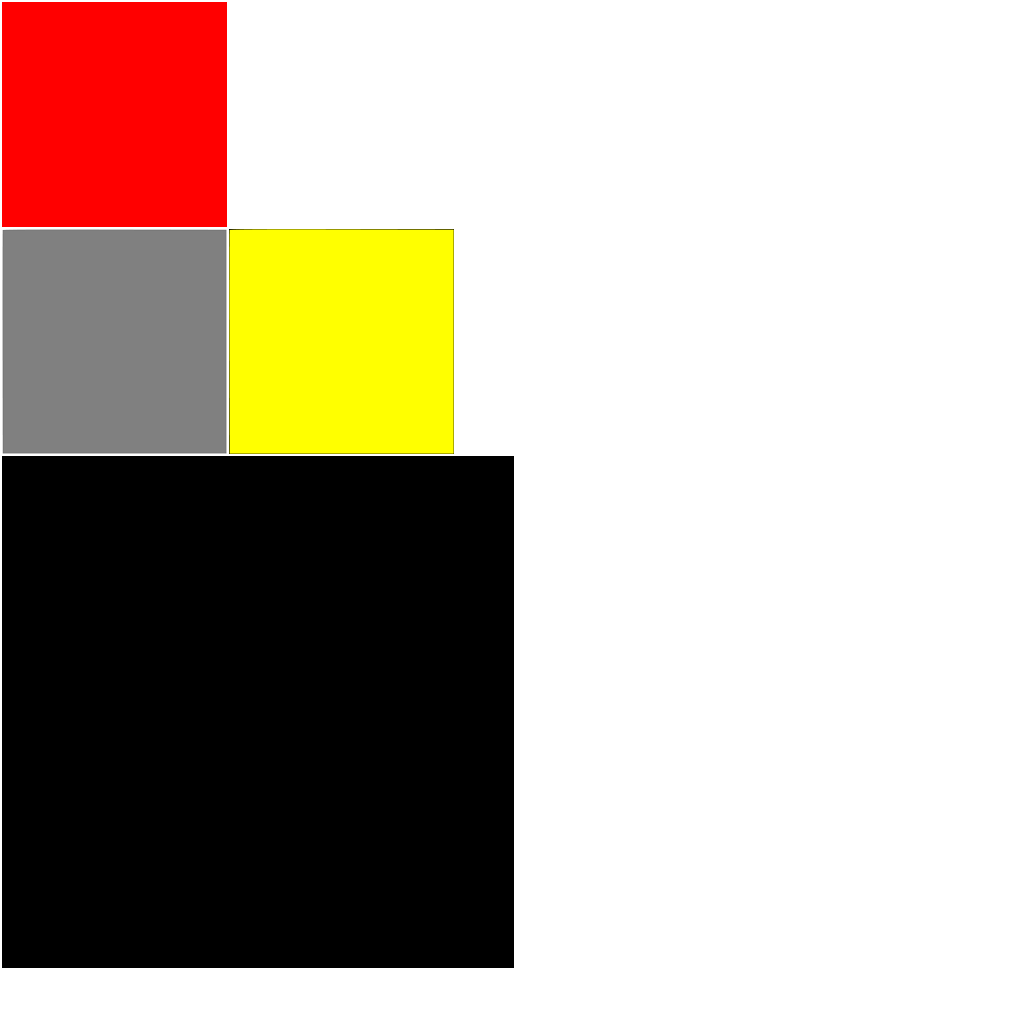
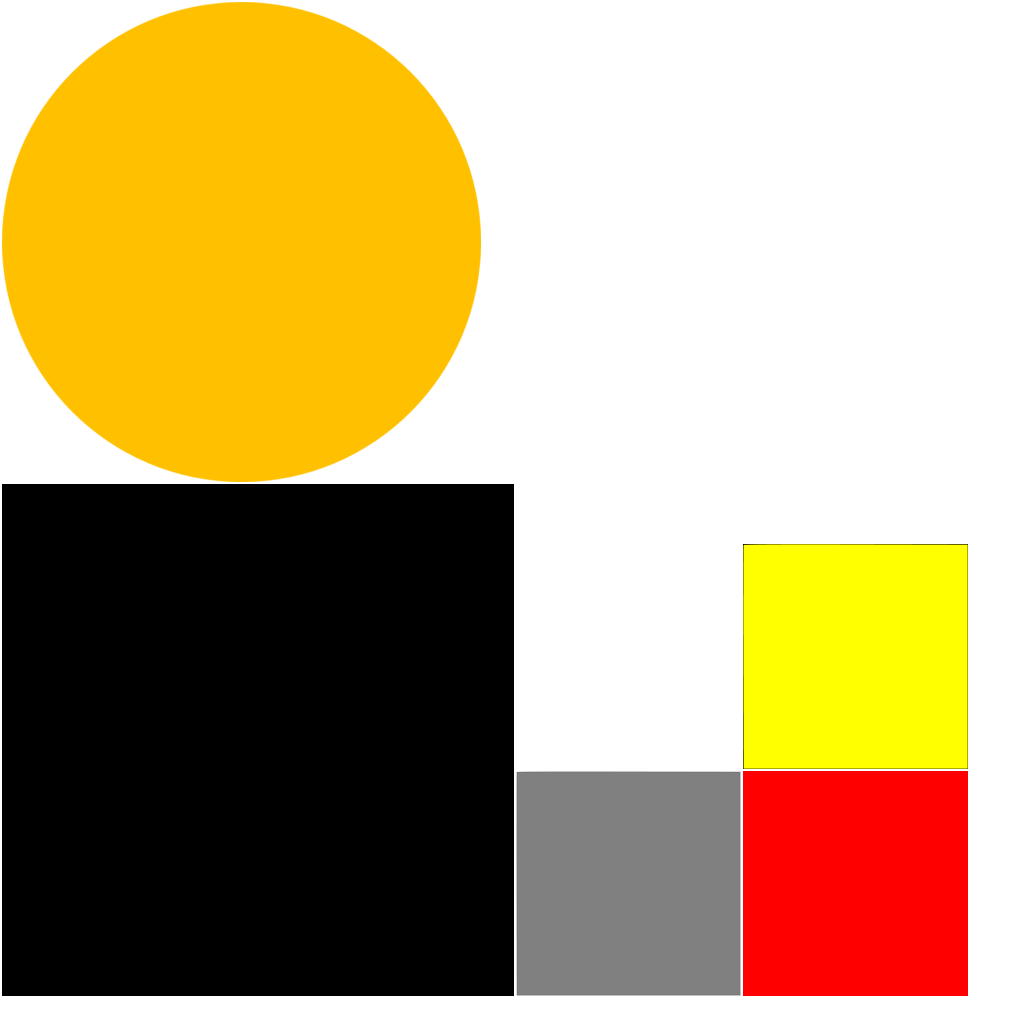
Circle zone

diff --git a/core/src/io/cucumber/view/GameScreen.kt b/core/src/io/cucumber/view/GameScreen.kt
@@ -65,7 +65,7 @@ class GameScreen(
                         DEFENDER_POWER,
                         DEFENDER_ZONE_SIZE,
                         DEFENDER_ZONE_ALPHA,
-                        level.assets.menuBackground
+                        level.assets.zone
                 )
                 payload.dragActor = actor
                 addActor(actor)
@@ -160,10 +160,18 @@ class GameScreen(
     }
 
     override fun stateCheck() {
-        defenders.forEach {
+        val hited = defenders.any {
             if (it.isCollidesZone(enemy)) {
                 enemy.hit(it.power * Gdx.graphics.deltaTime)
+                return@any true
             }
+
+            return@any false
+        }
+        if (hited) {
+            enemy.region = level.assets.menuBackground
+        } else {
+            enemy.region = level.assets.enemy
         }
 
         road.forEach {

diff --git a/core/src/io/cucumber/model/character/Zone.java b/core/src/io/cucumber/model/character/Zone.java
@@ -3,23 +3,23 @@ package io.cucumber.model.character;
 import com.badlogic.gdx.graphics.Color;
 import com.badlogic.gdx.graphics.g2d.Batch;
 import com.badlogic.gdx.graphics.g2d.TextureRegion;
-import com.badlogic.gdx.math.Rectangle;
+import com.badlogic.gdx.math.Circle;
+import com.badlogic.gdx.math.Intersector;
 
 import io.cucumber.base.model.base.Actor;
 import io.cucumber.base.model.base.StaticActor;
-import io.cucumber.base.model.bound.RectangleBound;
+import io.cucumber.base.model.bound.CircleBound;
 
-public class Zone extends StaticActor<Rectangle> {
+public class Zone extends StaticActor<Circle> {
 
     private Actor actor;
     private float alpha;
 
     public Zone(Actor actor, float size, float alpha, TextureRegion region) {
-        super(new RectangleBound(
+        super(new CircleBound(
                 actor.getX() + actor.getWidth() / 2f - size / 2f,
                 actor.getY() + actor.getHeight() / 2f - size / 2f,
-                size,
-                size
+                size / 2
         ), region);
         this.actor = actor;
         this.alpha = alpha;
@@ -63,5 +63,9 @@ public class Zone extends StaticActor<Rectangle> {
 
     public float getAlpha() {
         return alpha;
+    }
+
+    public boolean isCollides(Enemy enemy) {
+        return Intersector.overlaps(getBound().getValue(), enemy.getBound().getValue());
     }
 }

diff --git a/core/src/io/cucumber/base/model/bound/CircleBound.java b/core/src/io/cucumber/base/model/bound/CircleBound.java
@@ -5,17 +5,17 @@ import com.badlogic.gdx.math.Circle;
 public class CircleBound extends Bound2D<Circle> {
 
     public CircleBound(float x, float y, float radius) {
-        super(new Circle(x, y, radius));
+        super(new Circle(x + radius, y + radius, radius));
     }
 
     @Override
     public float getX() {
-        return bound.x;
+        return bound.x - bound.radius;
     }
 
     @Override
     public float getY() {
-        return bound.y;
+        return bound.y - bound.radius;
     }
 
     @Override
@@ -30,12 +30,12 @@ public class CircleBound extends Bound2D<Circle> {
 
     @Override
     public void setX(float x) {
-        bound.x = x;
+        bound.x = x + bound.radius;
     }
 
     @Override
     public void setY(float y) {
-        bound.y = y;
+        bound.y = y + bound.radius;
     }
 
     @Override
@@ -50,11 +50,11 @@ public class CircleBound extends Bound2D<Circle> {
 
     @Override
     public boolean overlaps(Bound2D<Circle> otherBound) {
-        return bound.overlaps(otherBound.getBound());
+        return bound.overlaps(otherBound.getValue());
     }
 
     @Override
-    protected Circle getBound() {
+    public Circle getValue() {
         return bound;
     }
 

diff --git a/core/src/io/cucumber/model/asset/LevelAssets.java b/core/src/io/cucumber/model/asset/LevelAssets.java
@@ -7,14 +7,16 @@ public class LevelAssets {
     private final TextureAtlas.AtlasRegion defender;
     private final TextureAtlas.AtlasRegion enemy;
     private final TextureAtlas.AtlasRegion block;
+    private final TextureAtlas.AtlasRegion zone;
     private final TextureAtlas.AtlasRegion background;
     private final TextureAtlas.AtlasRegion menuBackground;
 
-    public LevelAssets(TextureAtlas atlas, String defender, String enemy, String block,
+    public LevelAssets(TextureAtlas atlas, String defender, String enemy, String block, String zone,
                        String background, String menuBackground) {
         this.defender = atlas.findRegion(defender);
         this.enemy = atlas.findRegion(enemy);
         this.block = atlas.findRegion(block);
+        this.zone = atlas.findRegion(zone);
         this.background = atlas.findRegion(background);
         this.menuBackground = atlas.findRegion(menuBackground);
     }
@@ -29,6 +31,10 @@ public class LevelAssets {
 
     public TextureAtlas.AtlasRegion getBlock() {
         return block;
+    }
+
+    public TextureAtlas.AtlasRegion getZone() {
+        return zone;
     }
 
     public TextureAtlas.AtlasRegion getBackground() {

diff --git a/core/src/io/cucumber/manager/LevelManager.java b/core/src/io/cucumber/manager/LevelManager.java
@@ -15,7 +15,8 @@ public class LevelManager {
             return level;
         }
         atlas = new TextureAtlas(Gdx.files.internal("atlas/game.atlas"));
-        level = new Level(new LevelAssets(atlas, "defender", "enemy", "block", "background", "menu_background"));
+        level = new Level(new LevelAssets(atlas, "defender", "enemy", "block", "zone", "background",
+                "menu_background"));
         return level;
     }
 

diff --git a/core/src/io/cucumber/base/model/bound/RectangleBound.java b/core/src/io/cucumber/base/model/bound/RectangleBound.java
@@ -50,11 +50,11 @@ public class RectangleBound extends Bound2D<Rectangle> {
 
     @Override
     public boolean overlaps(Bound2D<Rectangle> otherBound) {
-        return bound.overlaps(otherBound.getBound());
+        return bound.overlaps(otherBound.getValue());
     }
 
     @Override
-    protected Rectangle getBound() {
+    public Rectangle getValue() {
         return bound;
     }
 

diff --git a/core/src/io/cucumber/base/model/bound/Bound2D.java b/core/src/io/cucumber/base/model/bound/Bound2D.java
@@ -28,7 +28,7 @@ public abstract class Bound2D<T extends Shape2D> {
 
     public abstract boolean overlaps(Bound2D<T> otherBound);
 
-    protected abstract T getBound();
+    public abstract T getValue();
 
     public abstract boolean contains(float x, float y);
 }
